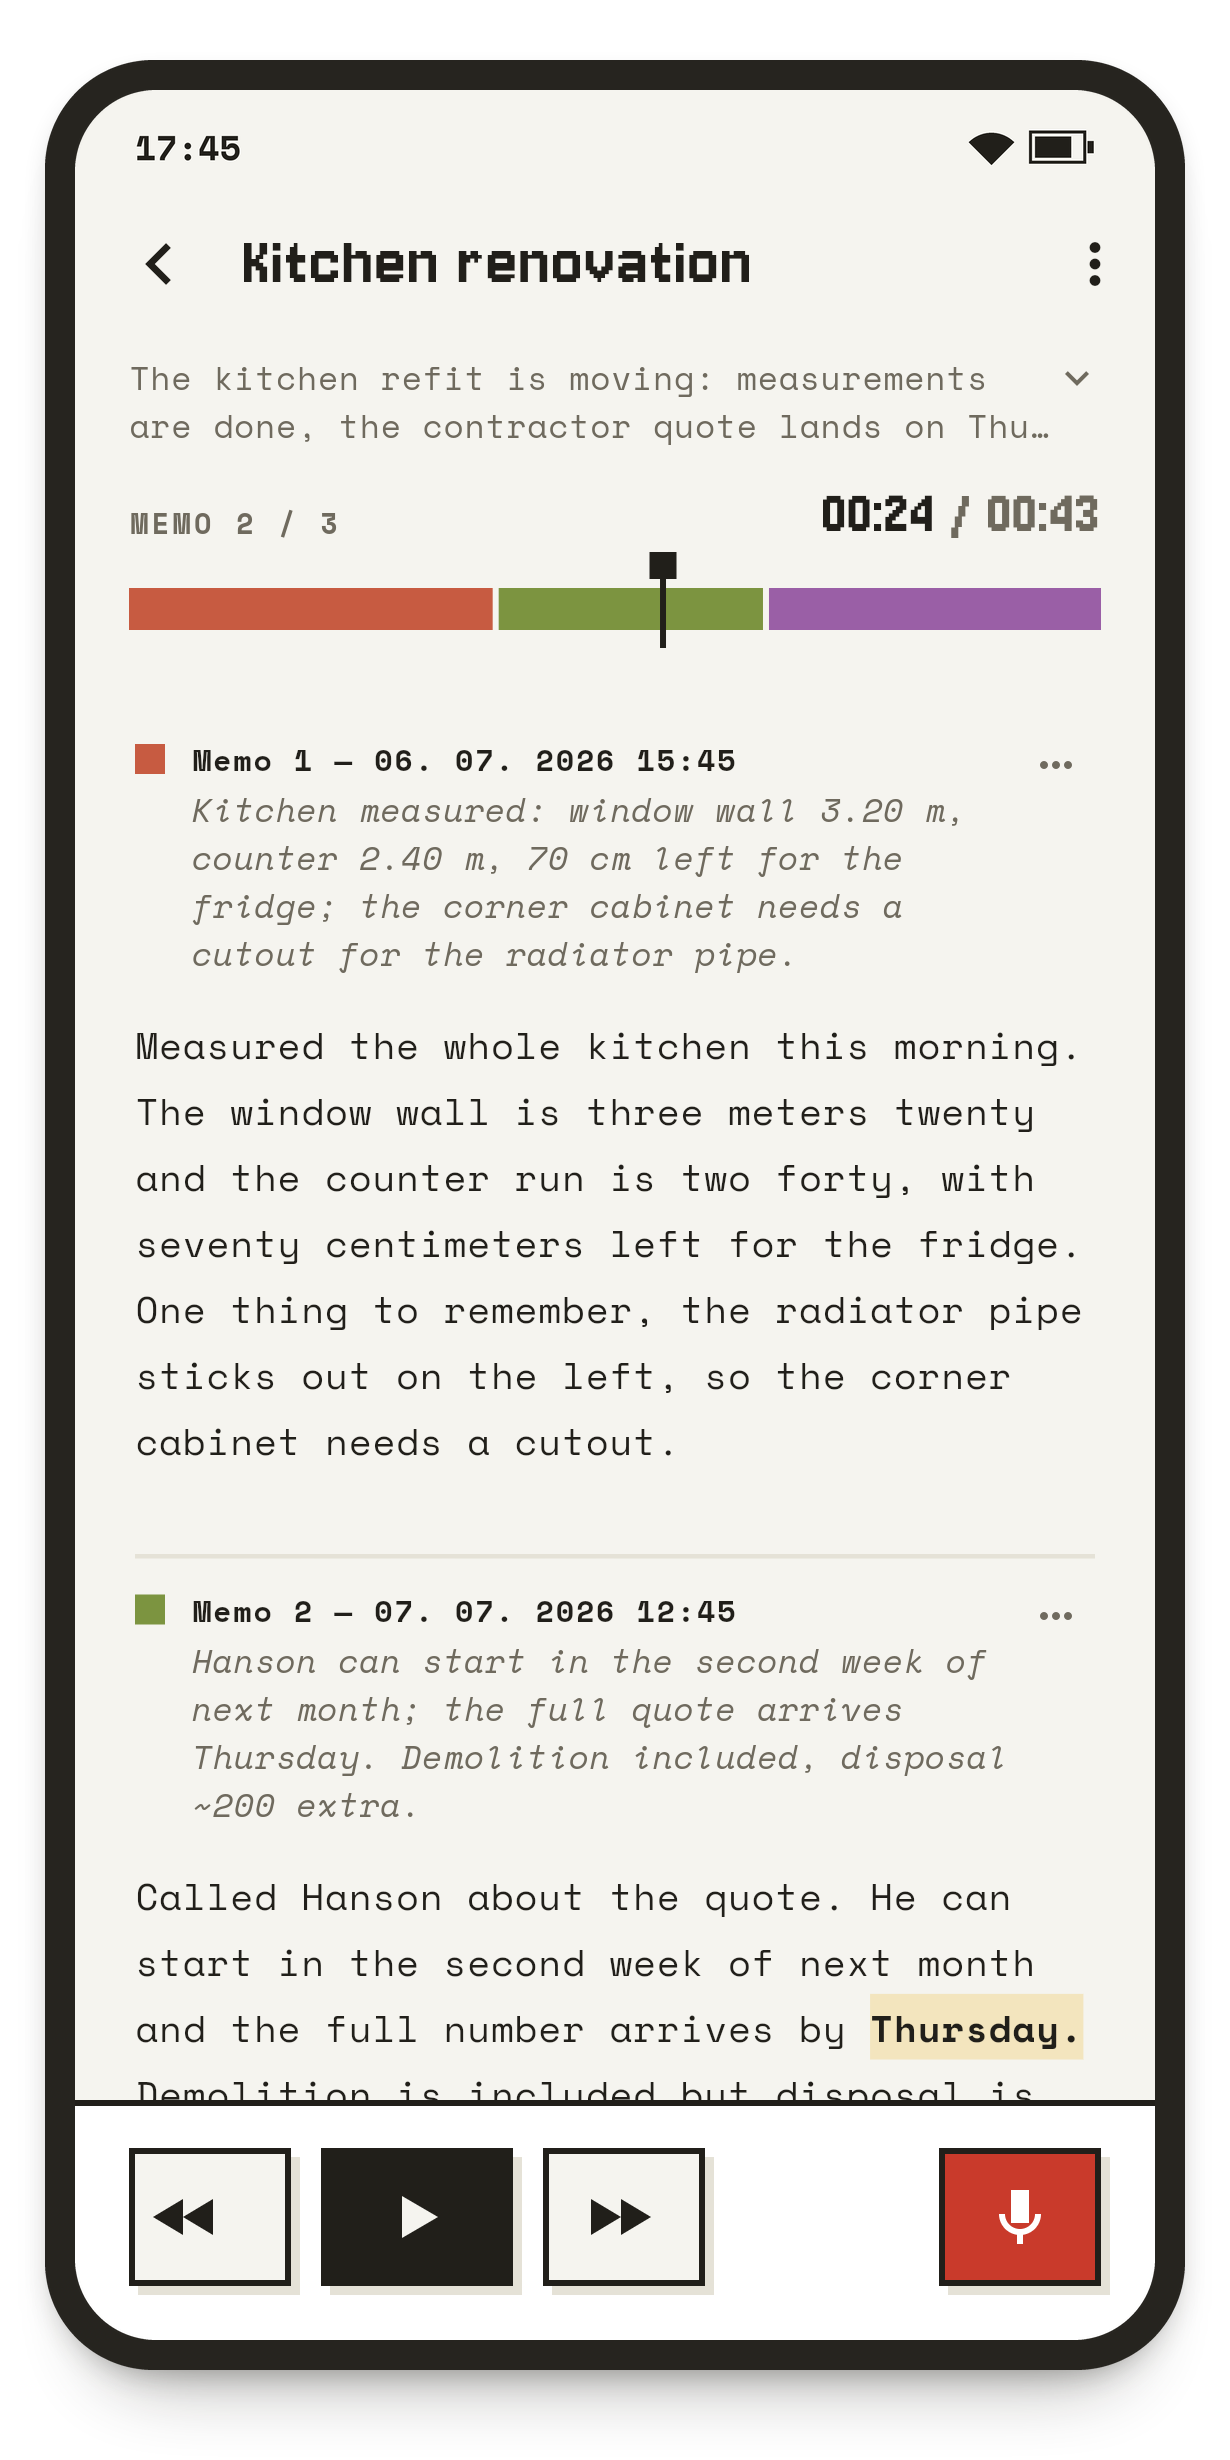
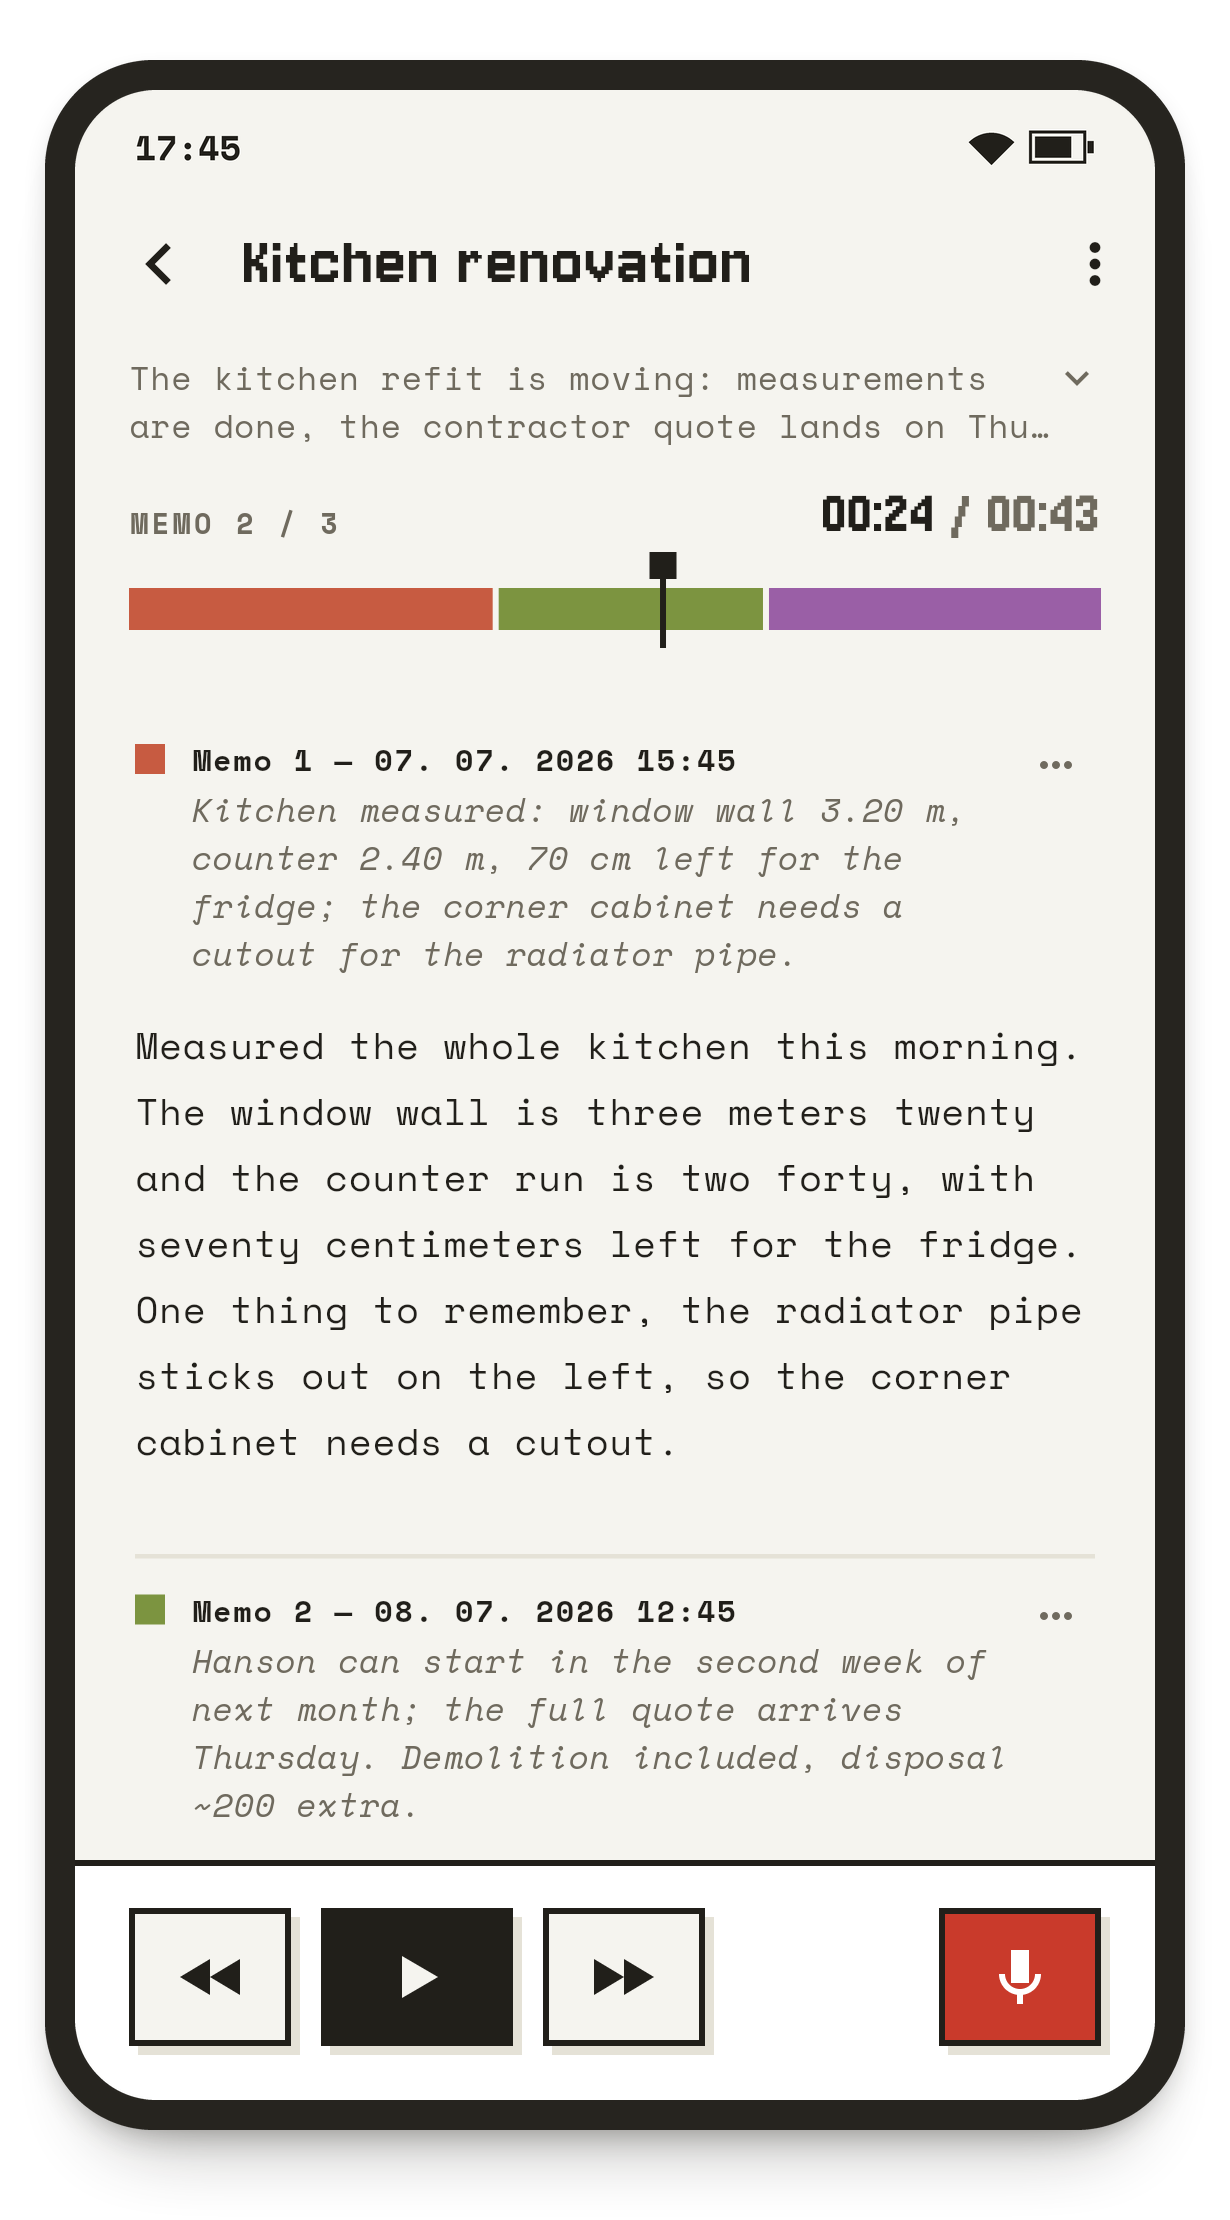
screnshots ratio; PRIVACY.md

diff --git a/integration_test/store_screenshots_test.dart b/integration_test/store_screenshots_test.dart
@@ -1,18 +1,24 @@
 /// Store & README screenshots: boots the real app over a seeded, realistic
-/// dataset and captures 1080x2160 (2:1 — the Play Store aspect-ratio cap)
-/// shots of the key screens — home grid, cassette view (summary collapsed &
-/// expanded), recording, Settings, and dark mode. No ML engine runs:
-/// enrichment is pre-seeded and the model files are sparse stand-ins, so
-/// Settings reads "installed".
+/// dataset and captures exactly-9:16 shots (the Play Store requirement) of
+/// the key screens — home grid, cassette view (summary collapsed & expanded),
+/// recording, Settings, and dark mode. No ML engine runs: enrichment is
+/// pre-seeded and the model files are sparse stand-ins, so Settings reads
+/// "installed".
 ///
-///   DIKTAFON_TEST_DIR=/tmp/dk_shots \
+/// One run captures one device profile, picked by DIKTAFON_SHOT_PROFILE:
+///   phone     360x640  @3x -> 1080x1920   (default)
+///   tablet7   603x1072 @2x -> 1206x2144
+///   tablet10  720x1280 @2x -> 1440x2560   (10" needs sides >= 1080)
+///
+///   DIKTAFON_TEST_DIR=/tmp/dk_shots_phone DIKTAFON_SHOT_PROFILE=phone \
 ///   flutter test integration_test/store_screenshots_test.dart -d linux
 ///
 /// Shots land in $DIKTAFON_TEST_DIR/shots/ as raw screen captures; the
-/// framing pass (`tool/screenshots/frame_screenshots.py $DIKTAFON_TEST_DIR/shots`)
-/// publishes each to docs/store/screenshots/ both raw (the Play upload) and
-/// wrapped in the mockup phone frame + status bar on a transparent canvas
-/// (`-framed.png`), with framed README copies in media/.
+/// framing pass (`tool/screenshots/frame_screenshots.py --device phone
+/// $DIKTAFON_TEST_DIR/shots`) publishes each to
+/// `docs/store/screenshots/{device}/` raw (the Play upload) plus a framed
+/// presentation version under `{device}/framed/`, with framed README copies
+/// in media/ (phone profile only).
 library;
 
 import 'dart:convert';
@@ -43,12 +49,23 @@ final _boundaryKey = GlobalKey();
 final _kitchenCard = find.bySemanticsLabel(RegExp('^Kitchen renovation,'));
 late Directory _workDir;
 
+/// Device profiles: logical canvas + capture scale. Every output is exactly
+/// 9:16 (Play requires 16:9 or 9:16; the 10" tablet also needs sides
+/// 1080–7680 px).
+const _profiles = <String, ({Size logical, double scale})>{
+  'phone': (logical: Size(360, 640), scale: 3.0), // 1080x1920
+  'tablet7': (logical: Size(603, 1072), scale: 2.0), // 1206x2144
+  'tablet10': (logical: Size(720, 1280), scale: 2.0), // 1440x2560
+};
+final _profile = _profiles[
+    Platform.environment['DIKTAFON_SHOT_PROFILE'] ?? 'phone']!;
+
 Future<void> _shot(WidgetTester tester, String name) async {
   await _settle(tester);
   final dir = Directory('${_workDir.path}/shots')..createSync(recursive: true);
   final boundary =
       _boundaryKey.currentContext!.findRenderObject() as RenderRepaintBoundary;
-  final image = await boundary.toImage(pixelRatio: 3);
+  final image = await boundary.toImage(pixelRatio: _profile.scale);
   final bytes = await image.toByteData(format: ui.ImageByteFormat.png);
   File('${dir.path}/$name.png').writeAsBytesSync(bytes!.buffer.asUint8List());
 }
@@ -113,11 +130,10 @@ void main() {
   });
 
   testWidgets('store screenshots over seeded demo data', (tester) async {
-    // Phone canvas (1080x2160 @3x) regardless of the host window; shots are
-    // captured at pixelRatio 3 for full store resolution. 2:1 is the Play
-    // Store's aspect-ratio cap; the framing tool keeps that ratio.
-    tester.view.physicalSize = const Size(1080, 2160);
-    tester.view.devicePixelRatio = 3.0;
+    // Profile canvas regardless of the host window; shots are captured at
+    // the profile's scale for full store resolution (exactly 9:16).
+    tester.view.physicalSize = _profile.logical * _profile.scale;
+    tester.view.devicePixelRatio = _profile.scale;
     addTearDown(tester.view.reset);
     tester.platformDispatcher.localesTestValue = [const Locale('en', 'US')];
     addTearDown(tester.platformDispatcher.clearLocalesTestValue);

diff --git a/tool/screenshots/frame_screenshots.py b/tool/screenshots/frame_screenshots.py
@@ -1,28 +1,39 @@
 #!/usr/bin/env python3
-"""Wraps raw store screenshots in the docs/ui-mockups.html phone frame.
+"""Wraps raw store screenshots in the docs/ui-mockups.html device frame.
 
 The screenshot test (integration_test/store_screenshots_test.dart) captures
-bare 1080x2160 screen contents; this tool publishes each one twice:
+bare 9:16 screen contents for one device profile per run; this tool publishes
+each shot twice:
 
-  docs/store/screenshots/<name>.png          raw screen — the Play upload
-                                             (24-bit RGB, exactly 2:1)
-  docs/store/screenshots/<name>-framed.png   presentation version: status bar
-                                             (clock + wifi/battery), dark
-                                             rounded bezel and a soft drop
-                                             shadow on a transparent canvas
-  media/{01-home,02-cassette,04-settings}.png   framed README copies
+  docs/store/screenshots/<device>/<name>.png   raw screen — the Play upload
+                                               (24-bit RGB, exactly 9:16)
+  docs/store/screenshots/<device>/framed/<name>-framed.png
+                                               presentation version: status
+                                               bar (clock + wifi/battery),
+                                               dark rounded bezel and a soft
+                                               drop shadow on a transparent
+                                               canvas
+  media/{01-home,02-cassette,04-settings}.png  framed README copies
+                                               (phone profile only)
 
 Usage (from the repo root, after the screenshot test):
-  python3 tool/screenshots/frame_screenshots.py "$DIKTAFON_TEST_DIR/shots"
+  python3 tool/screenshots/frame_screenshots.py --device phone \
+      "$DIKTAFON_TEST_DIR/shots"
+
+Device profiles match DIKTAFON_SHOT_PROFILE in the test:
+  phone     1080x1920 @3x   -> screenshots/phone/
+  tablet7   1206x2144 @2x   -> screenshots/tablet-7in/
+  tablet10  1440x2560 @2x   -> screenshots/tablet-10in/
 
 The raw set stays alpha-free because Play rejects transparency; the framed
-set is RGBA so the surroundings show through outside the phone. Colors and
+set is RGBA so the surroundings show through outside the device. Colors and
 geometry mirror the phone-frame CSS in docs/ui-mockups.html (.ph / .scr /
-.status); dark shots are detected from the screen content.
+.status), with flatter corners and a wider bezel for the tablets; dark shots
+are detected from the screen content.
 """
 
+import argparse
 import os
-import sys
 
 from PIL import Image, ImageDraw, ImageFilter, ImageFont, ImageStat
 
@@ -31,14 +42,22 @@ STORE_DIR = os.path.join(ROOT, 'docs', 'store', 'screenshots')
 MEDIA_DIR = os.path.join(ROOT, 'media')
 README_SET = {'01-home', '02-cassette', '04-settings'}
 
-SHOT_SIZE = (1080, 2160)
-S = 3    # px per mockup-CSS logical px (shots are captured @3x)
+# Per-device geometry, all logical px (the mockup-CSS unit). `s` is the px
+# per logical px the shot was captured at. Phone values are straight from
+# docs/ui-mockups.html: .ph{border-radius:36px;padding:10px}
+# .scr{border-radius:27px}; tablets get a wider bezel and flatter corners.
+PROFILES = {
+    'phone': dict(shot=(1080, 1920), s=3, dir='phone',
+                  bezel_pad=10, bezel_r=36, screen_r=27, readme=True),
+    'tablet7': dict(shot=(1206, 2144), s=2, dir='tablet-7in',
+                    bezel_pad=16, bezel_r=34, screen_r=20, readme=False),
+    'tablet10': dict(shot=(1440, 2560), s=2, dir='tablet-10in',
+                     bezel_pad=18, bezel_r=36, screen_r=20, readme=False),
+}
+
 SS = 4   # supersampling factor for masks and status-bar art
 
-# docs/ui-mockups.html: .ph{border-radius:36px;background:#26241F;padding:10px}
-# .scr{border-radius:27px}; phone --p-ink per theme.
 BEZEL_COLOR = (0x26, 0x24, 0x1F)
-BEZEL_PAD, BEZEL_R, SCREEN_R = 10, 36, 27
 INK = {'light': (0x21, 0x1F, 0x1A), 'dark': (0xEC, 0xE8, 0xDF)}
 SHADOW_COLOR = (20, 18, 12)
 
@@ -48,7 +67,9 @@ STATUS_CY = 19
 CLOCK = '17:45'          # the demo dataset is anchored to this afternoon
 FONT = os.path.join(ROOT, 'assets', 'fonts', 'SpaceMono-Bold.ttf')
 
-CANVAS = (410, 820)      # logical
+# Transparent margin around the framed device: sides / vertical (logical).
+MARGIN_W, MARGIN_H = 30, 50
+
 
 def rounded_mask(size_px, radius_px):
     """Antialiased rounded-rect mask (drawn at SSx, downscaled)."""
@@ -59,26 +80,26 @@ def rounded_mask(size_px, radius_px):
     return m.resize(size_px, Image.LANCZOS)
 
 
-def cast_shadow(canvas, pos, size, radius, dy, sigma, inset, alpha):
-    """One box-shadow layer: the phone's rect shrunk by `inset`, offset
+def cast_shadow(canvas, pos, size, radius, dy, sigma, inset, alpha, s):
+    """One box-shadow layer: the device's rect shrunk by `inset`, offset
     down by `dy`, gaussian-blurred, stamped at `alpha` (all logical px)."""
     x, y = pos
     w, h = size
     m = Image.new('L', canvas.size, 0)
     m.paste(
-        rounded_mask((w - 2 * inset * S, h - 2 * inset * S),
-                     max(1, radius - inset) * S),
-        (x + inset * S, y + (inset + dy) * S))
-    m = m.filter(ImageFilter.GaussianBlur(sigma * S))
+        rounded_mask((w - 2 * inset * s, h - 2 * inset * s),
+                     max(1, radius - inset) * s),
+        (x + inset * s, y + (inset + dy) * s))
+    m = m.filter(ImageFilter.GaussianBlur(sigma * s))
     layer = Image.new('RGBA', canvas.size, SHADOW_COLOR + (0,))
     layer.putalpha(m.point(lambda v: int(v * alpha)))
     canvas.alpha_composite(layer)
 
 
-def status_bar(width_px, bg, ink):
+def status_bar(width_px, bg, ink, s):
     """The mockups' status row: bold clock left, wifi + battery right.
     Drawn at SSx and downscaled; icon paths follow the mockup SVGs."""
-    u = S * SS  # px per logical unit while supersampling
+    u = s * SS  # px per logical unit while supersampling
     img = Image.new('RGB', (width_px * SS, STATUS_H * u), bg)
     d = ImageDraw.Draw(img)
     cy = STATUS_CY * u
@@ -99,52 +120,64 @@ def status_bar(width_px, bg, ink):
     ax, ay, r = bx - 5 * u - round(7.5 * u), cy + 6 * u, 10.7 * u
     d.pieslice([ax - r, ay - r, ax + r, ay + r], 225, 315, fill=ink)
 
-    return img.resize((width_px, STATUS_H * S), Image.LANCZOS)
+    return img.resize((width_px, STATUS_H * s), Image.LANCZOS)
 
 
-def frame(shot):
-    top = shot.crop((0, 0, shot.width, 8 * S))
+def frame(shot, p):
+    s = p['s']
+    top = shot.crop((0, 0, shot.width, 8 * s))
     theme = 'dark' if ImageStat.Stat(top.convert('L')).mean[0] < 100 else 'light'
     # Status bg = the shot's own top-edge color, so the bar joins seamlessly.
-    colors = top.crop((0, 0, top.width, 4 * S)).getcolors(top.width * 4 * S)
+    colors = top.crop((0, 0, top.width, 4 * s)).getcolors(top.width * 4 * s)
     status_bg = max(colors)[1][:3]
 
-    screen = Image.new('RGB', (shot.width, STATUS_H * S + shot.height))
-    screen.paste(status_bar(shot.width, status_bg, INK[theme]), (0, 0))
-    screen.paste(shot, (0, STATUS_H * S))
+    screen = Image.new('RGB', (shot.width, STATUS_H * s + shot.height))
+    screen.paste(status_bar(shot.width, status_bg, INK[theme], s), (0, 0))
+    screen.paste(shot, (0, STATUS_H * s))
 
-    phone = (screen.width + 2 * BEZEL_PAD * S, screen.height + 2 * BEZEL_PAD * S)
-    canvas = Image.new('RGBA', (CANVAS[0] * S, CANVAS[1] * S), (0, 0, 0, 0))
-    px = (canvas.width - phone[0]) // 2
-    py = (canvas.height - phone[1]) * 2 // 5  # shadow gets the larger margin
+    pad = p['bezel_pad']
+    device = (screen.width + 2 * pad * s, screen.height + 2 * pad * s)
+    canvas = Image.new(
+        'RGBA',
+        (device[0] + MARGIN_W * s, device[1] + MARGIN_H * s), (0, 0, 0, 0))
+    px = (canvas.width - device[0]) // 2
+    py = (canvas.height - device[1]) * 2 // 5  # shadow gets the larger margin
 
     # .ph box-shadow: 0 24px 60px -24px .45 + 0 4px 14px -6px .3 (approx).
-    cast_shadow(canvas, (px, py), phone, BEZEL_R, 20, 13, 20, 0.45)
-    cast_shadow(canvas, (px, py), phone, BEZEL_R, 4, 5, 4, 0.30)
-    bezel = Image.new('RGBA', phone, BEZEL_COLOR + (255,))
-    bezel.putalpha(rounded_mask(phone, BEZEL_R * S))
+    cast_shadow(canvas, (px, py), device, p['bezel_r'], 20, 13, 20, 0.45, s)
+    cast_shadow(canvas, (px, py), device, p['bezel_r'], 4, 5, 4, 0.30, s)
+    bezel = Image.new('RGBA', device, BEZEL_COLOR + (255,))
+    bezel.putalpha(rounded_mask(device, p['bezel_r'] * s))
     canvas.alpha_composite(bezel, dest=(px, py))
     scr = screen.convert('RGBA')
-    scr.putalpha(rounded_mask(screen.size, SCREEN_R * S))
-    canvas.alpha_composite(scr, dest=(px + BEZEL_PAD * S, py + BEZEL_PAD * S))
+    scr.putalpha(rounded_mask(screen.size, p['screen_r'] * s))
+    canvas.alpha_composite(scr, dest=(px + pad * s, py + pad * s))
     return canvas
 
 
 def main():
-    if len(sys.argv) != 2 or not os.path.isdir(sys.argv[1]):
-        sys.exit(f'usage: {sys.argv[0]} <raw-shots-dir>')
-    shots = sorted(f for f in os.listdir(sys.argv[1]) if f.endswith('.png'))
+    ap = argparse.ArgumentParser()
+    ap.add_argument('--device', choices=sorted(PROFILES), default='phone')
+    ap.add_argument('shots_dir')
+    args = ap.parse_args()
+    p = PROFILES[args.device]
+    if not os.path.isdir(args.shots_dir):
+        raise SystemExit(f'not a directory: {args.shots_dir}')
+    shots = sorted(f for f in os.listdir(args.shots_dir) if f.endswith('.png'))
     if not shots:
-        sys.exit(f'no .png shots in {sys.argv[1]}')
-    os.makedirs(STORE_DIR, exist_ok=True)
+        raise SystemExit(f'no .png shots in {args.shots_dir}')
+    raw_dir = os.path.join(STORE_DIR, p['dir'])
+    framed_dir = os.path.join(raw_dir, 'framed')
+    os.makedirs(framed_dir, exist_ok=True)
     for name in shots:
-        shot = Image.open(os.path.join(sys.argv[1], name)).convert('RGB')
-        assert shot.size == SHOT_SIZE, f'{name}: {shot.size} != {SHOT_SIZE}'
-        shot.save(os.path.join(STORE_DIR, name))
-        framed = frame(shot)
-        framed.save(os.path.join(STORE_DIR, f'{name[:-4]}-framed.png'))
-        out = [f'{name} + {name[:-4]}-framed.png']
-        if name[:-4] in README_SET:
+        shot = Image.open(os.path.join(args.shots_dir, name)).convert('RGB')
+        expected = tuple(p['shot'])
+        assert shot.size == expected, f'{name}: {shot.size} != {expected}'
+        shot.save(os.path.join(raw_dir, name))
+        framed = frame(shot, p)
+        framed.save(os.path.join(framed_dir, f'{name[:-4]}-framed.png'))
+        out = [f'{p["dir"]}/{name} + framed/{name[:-4]}-framed.png']
+        if p['readme'] and name[:-4] in README_SET:
             framed.save(os.path.join(MEDIA_DIR, name))
             out.append(f'media/{name}')
         print(f'  {" + ".join(out)}')

diff --git a/PRIVACY.md b/PRIVACY.md
@@ -1,0 +1,76 @@
+# Diktafon — Privacy Policy
+
+_Effective date: 10 July 2026_
+
+Diktafon ("the app") is a voice-memo app developed by Jaromír Janisch
+("the developer"). This policy explains what data the app handles and what
+happens to it.
+
+**The short version: everything stays on your device. The app collects
+nothing and shares nothing.**
+
+## Data the app stores — on your device only
+
+- Voice recordings you make.
+- Transcripts and summaries the app derives from those recordings.
+- Cassette labels and app settings.
+
+All of this lives in the app's private storage on your device.
+Transcription (whisper.cpp) and summarisation (llama.cpp) run entirely
+on-device. No recording, transcript, summary, or any other user data is
+ever transmitted off your device by the app.
+
+## No data collection or sharing
+
+- The app has no user accounts, no analytics, no crash reporting, no
+  advertising, and no third-party service SDKs.
+- The developer receives no data of any kind from the app.
+
+## Network use
+
+The app's only network activity is downloading machine-learning model
+files over HTTPS from Hugging Face (`huggingface.co` and its CDN), at your
+explicit request. These downloads carry no personal data, identifiers, or
+telemetry from the app. As with any web request, the server can see your
+IP address; see the [Hugging Face privacy
+policy](https://huggingface.co/privacy) for how they handle requests.
+Nothing is ever uploaded.
+
+## Permissions
+
+- **Microphone** (`RECORD_AUDIO`) — recording voice memos; requested when
+  you first press record. Audio is captured only while you are recording.
+- **Internet** — model downloads from Hugging Face only.
+- **Notifications** (`POST_NOTIFICATIONS`) — model-download progress;
+  requested on Android 13+.
+- **Foreground service, microphone** — allows a recording in progress to
+  continue while the screen is off.
+
+## Backups and export
+
+- **Android Auto Backup** may include the app's database (labels,
+  transcripts, summaries — not audio recordings, not models) in your own
+  Google-account device backup. That backup is encrypted, controlled by
+  you, and inaccessible to the developer.
+- **Export** — you can export a cassette to a `.zip` archive saved to a
+  location you choose. This is a local file operation on your device;
+  what you do with the archive afterwards is up to you.
+
+## Data retention and deletion
+
+Your data exists only on your device. Deleting a memo or cassette in the
+app removes its audio and derived text immediately; uninstalling the app
+removes everything.
+
+## Children
+
+The app is not directed at children and collects no data from anyone.
+
+## Changes to this policy
+
+Any changes will be published at this URL with an updated effective date.
+
+## Contact
+
+Jaromír Janisch — [email redacted] — or open an issue at
+<https://github.com/jaromiru/diktafon>.